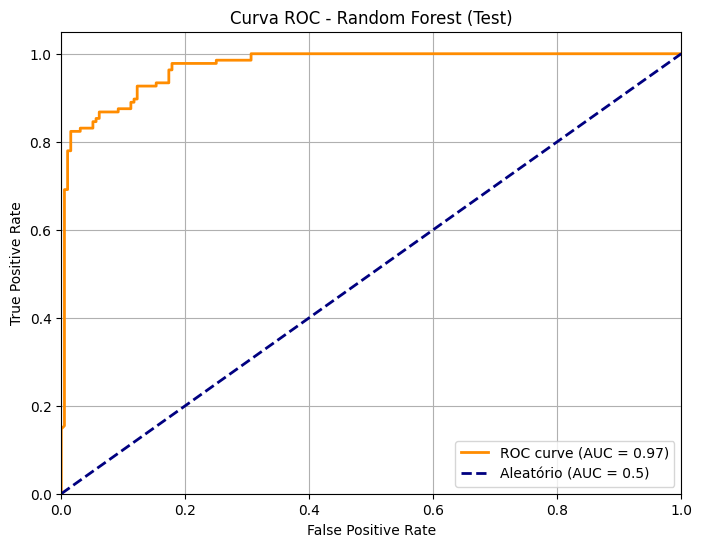
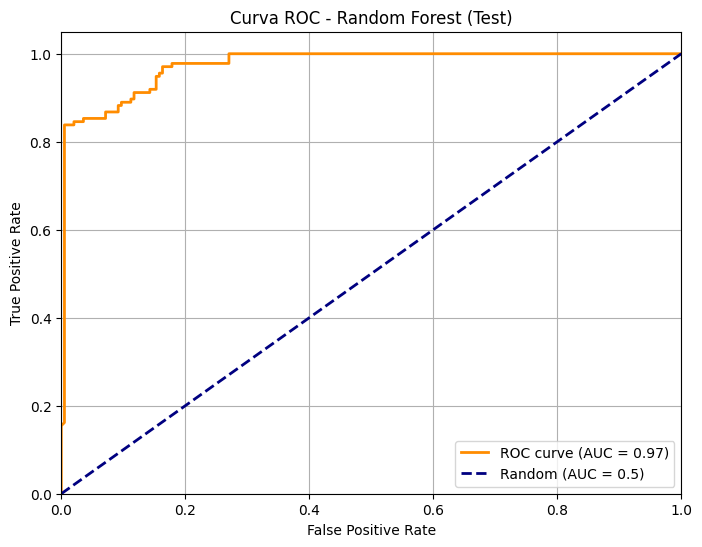
smote balance applied

Changed region(s): [[0.0897, 0.1243, 0.2692, 0.3419], [0.7179, 0.8391, 0.9274, 0.9013], [0.2991, 0.0932, 0.359, 0.1243]]

diff --git a/Utils/metrics_visual.py b/Utils/metrics_visual.py
@@ -2,7 +2,7 @@ import matplotlib.pyplot as plt
 from sklearn.metrics import ConfusionMatrixDisplay, classification_report, accuracy_score, roc_curve, auc
 import os
 import pandas as pd
-
+import seaborn as sns
 
 def save_confusion_matrix(y_true, y_pred, class_labels, save_path, show=False, title="Confusion Matrix"):
     """
@@ -33,7 +33,6 @@ def save_confusion_matrix(y_true, y_pred, class_labels, save_path, show=False, t
 
     plt.close()
     print(f"[INFO] Confusion matrix saved to: {save_path}")
-
 
 def save_classification_report_image(y_true, y_pred, class_labels, save_path, title="Classification Report"):
     """
@@ -86,27 +85,26 @@ def save_classification_report_image(y_true, y_pred, class_labels, save_path, ti
 
     print(f"[INFO] Pretty classification report image saved to: {save_path}")
 
-
-def plot_roc_curve(y_true, y_proba, title='Curve ROC', save_path=None, show=True):
+def plot_roc_curve(y_true, y_proba, title='ROC Curve', save_path=None, show=True):
     """
-    Plota a Curva ROC com AUC para um modelo de classificação binária.
+    Plots the ROC Curve with AUC for a binary classification model.
 
-    Parâmetros:
-    - y_true: array-like com os rótulos reais (0 ou 1)
-    - y_proba: array-like com as probabilidades preditas da classe positiva (ex: .predict_proba()[:, 1])
-    - title: título do gráfico (opcional)
-    - save_path: caminho para salvar a imagem (opcional)
-    - show: se True, exibe o gráfico ao final (opcional)
+    Parameters:
+    - y_true: array-like, true binary labels (0 or 1)
+    - y_proba: array-like, predicted probabilities for the positive class (e.g., model.predict_proba()[:, 1])
+    - title: str, plot title (optional)
+    - save_path: str, path to save the image (optional)
+    - show: bool, if True, displays the plot (optional)
     """
 
-    # Calcula FPR, TPR e AUC
+    # Compute False Positive Rate (FPR), True Positive Rate (TPR), and thresholds
     fpr, tpr, _ = roc_curve(y_true, y_proba)
     roc_auc = auc(fpr, tpr)
 
-    # Plotagem
+    # Plot ROC Curve
     plt.figure(figsize=(8, 6))
     plt.plot(fpr, tpr, color='darkorange', lw=2, label=f'ROC curve (AUC = {roc_auc:.2f})')
-    plt.plot([0, 1], [0, 1], color='navy', lw=2, linestyle='--', label='Aleatório (AUC = 0.5)')
+    plt.plot([0, 1], [0, 1], color='navy', lw=2, linestyle='--', label='Random (AUC = 0.5)')
     plt.xlim([0.0, 1.0])
     plt.ylim([0.0, 1.05])
     plt.xlabel('False Positive Rate')
@@ -114,6 +112,35 @@ def plot_roc_curve(y_true, y_proba, title='Curve ROC', save_path=None, show=True
     plt.title(title)
     plt.legend(loc="lower right")
     plt.grid(True)
+
+    # Save or display the plot
+    if save_path:
+        plt.savefig(save_path, bbox_inches='tight')
+    if show:
+        plt.show()
+    else:
+        plt.close()
+
+def plot_survival_distribution(train_labels, title='Survival Distribution (Train Set)', save_path=None, show=True):
+    """
+    Plots the distribution of the 'Survived' variable for the training set.
+
+    Parameters:
+    - train_labels: Series or array-like of training set labels (0 or 1)
+    - title: plot title (optional)
+    - save_path: path to save the plot (optional)
+    - show: if True, displays the plot
+    """
+    train_df = pd.DataFrame({'Survived': train_labels})
+
+    # Plot
+    plt.figure(figsize=(6, 5))
+    sns.countplot(data=train_df, x='Survived', palette='Set2')
+    plt.title(title)
+    plt.xlabel('Survived')
+    plt.ylabel('Count')
+    plt.xticks(ticks=[0, 1], labels=['Died', 'Survived'])
+    plt.grid(True, axis='y', linestyle='--', alpha=0.5)
 
     if save_path:
         plt.savefig(save_path, bbox_inches='tight')

diff --git a/Algorithms/random_forest.py b/Algorithms/random_forest.py
@@ -1,8 +1,8 @@
 from sklearn.ensemble import RandomForestClassifier
-from sklearn.model_selection import train_test_split
+from imblearn.over_sampling import SMOTE
 from Utils.data_set_reader import csv_reader
 from Utils.pre_processing import treat_data
-from Utils.metrics_visual import save_confusion_matrix, save_classification_report_image, plot_roc_curve
+from Utils.metrics_visual import save_confusion_matrix, save_classification_report_image, plot_roc_curve, plot_survival_distribution
 import pandas as pd 
 
 def random_forest():
@@ -26,17 +26,15 @@ def random_forest():
 
     y_true_clean = y_true.loc[left_indexes]
 
-    # Após prever o modelo com predict_proba no conjunto de teste:
     y_proba_test = model.predict_proba(X_test)[:, 1]
 
     plot_roc_curve(
         y_true=y_true_clean,
         y_proba=y_proba_test,
         title='Curva ROC - Random Forest (Test)',
-        save_path='Analysis/Random_Forest/roc_curve_rf_test.png',
+        save_path='Analysis/Random_forest/roc_curve_rf_test.png',
         show=True
     )
-
 
     save_confusion_matrix(
         y_true=y_true_clean,
@@ -51,21 +49,12 @@ def random_forest():
         y_true=y_true_clean,
         y_pred=y_test,
         class_labels=["Died", "Survived"],
-        save_path="Analysis/Random_Forest/classification_report_rf_test.png",
+        save_path="Analysis/Random_forest/classification_report_rf_test.png",
         title="Classification Report - Random Forest"
     )
 
 
-
 def forest_training():
-
-    model = RandomForestClassifier(
-        n_estimators=200,
-        max_depth=7,
-        min_samples_split=5,
-        max_features='sqrt',
-        random_state=42
-    )
 
     data_train = csv_reader("Titanic_data_set/train.csv")
 
@@ -78,6 +67,30 @@ def forest_training():
     X_train = data_train.drop('Survived', axis=1)
     y_train = data_train['Survived']
 
-    model.fit(X_train, y_train)
+    plot_survival_distribution(
+        train_labels=y_train,
+        title='Original Survival Distribution - Train Set',
+        save_path='Analysis/Random_Forest/original_distribution.png',
+        show=True
+    )
+
+    smote = SMOTE(random_state=42)
+    X_resampled, y_resampled = smote.fit_resample(X_train, y_train)
+
+    plot_survival_distribution(
+        train_labels=y_resampled,
+        title='After SMOTE (Oversampling)',
+        save_path='Analysis/Random_Forest/after_smote_distribution.png',
+        show=True
+    )
+
+    model = RandomForestClassifier(
+        n_estimators=200,
+        max_depth=7,
+        min_samples_split=5,
+        max_features='sqrt',
+        random_state=42
+    )
+    model.fit(X_resampled, y_resampled)
 
     return model

diff --git a/main.py b/main.py
@@ -1,6 +1,3 @@
-from Utils.data_set_reader import csv_reader
-from Utils.pre_processing import treat_data
-from sklearn.preprocessing import LabelEncoder
 from Algorithms.random_forest import random_forest
 
 random_forest()
